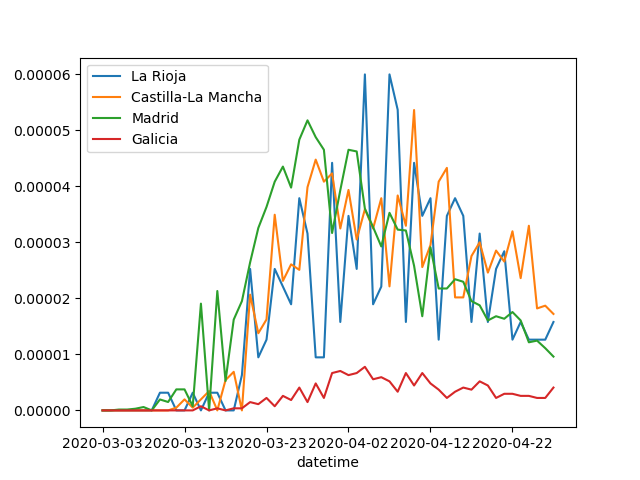
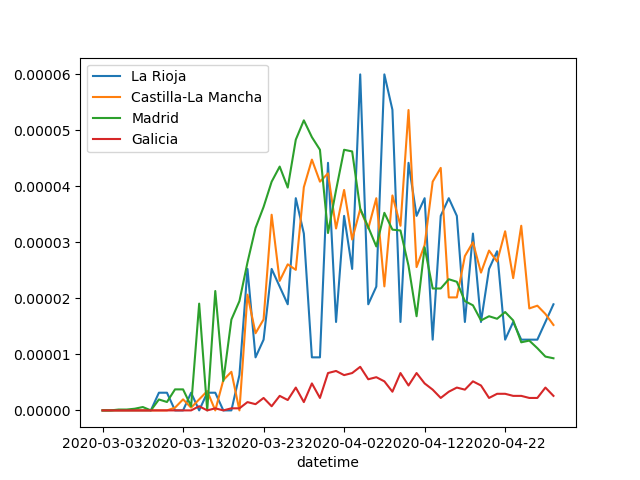
datetime until yesterday to represent full day

Changed region(s): [[0.2188, 0.1562, 0.875, 0.875], [0.2188, 0.9062, 0.875, 0.9375], [0.7188, 0.7812, 0.875, 0.8438]]

diff --git a/docs/index.html b/docs/index.html
@@ -51,7 +51,7 @@
             <th>Percentage</th>
           </tr>
           <tr>
-          <tr><td>Spain</td><td>10.92 %</td></tr><tr><td>Sweden</td><td>11.77 %</td></tr><tr><td>Netherlands</td><td>11.82 %</td></tr><tr><td>Antigua_and_Barbuda</td><td>12.50 %</td></tr><tr><td>Algeria</td><td>12.57 %</td></tr><tr><td>Zimbabwe</td><td>12.90 %</td></tr><tr><td>Italy</td><td>13.48 %</td></tr><tr><td>United_Kingdom</td><td>13.56 %</td></tr><tr><td>Bahamas</td><td>13.75 %</td></tr><tr><td>Northern_Mariana_Islands</td><td>14.29 %</td></tr><tr><td>Mauritania</td><td>14.29 %</td></tr><tr><td>Belgium</td><td>15.38 %</td></tr><tr><td>British_Virgin_Islands</td><td>16.67 %</td></tr><tr><td>Sint_Maarten</td><td>17.57 %</td></tr><tr><td>France</td><td>18.35 %</td></tr><tr><td>Nicaragua</td><td>23.08 %</td></tr>
+          <tr><td>Spain</td><td>10.92 %</td></tr><tr><td>Sweden</td><td>12.02 %</td></tr><tr><td>Liberia</td><td>12.03 %</td></tr><tr><td>Algeria</td><td>12.28 %</td></tr><tr><td>Antigua_and_Barbuda</td><td>12.50 %</td></tr><tr><td>Zimbabwe</td><td>12.50 %</td></tr><tr><td>United_Kingdom</td><td>13.42 %</td></tr><tr><td>Italy</td><td>13.53 %</td></tr><tr><td>Bahamas</td><td>13.75 %</td></tr><tr><td>Northern_Mariana_Islands</td><td>14.29 %</td></tr><tr><td>Mauritania</td><td>14.29 %</td></tr><tr><td>Belgium</td><td>15.44 %</td></tr><tr><td>British_Virgin_Islands</td><td>16.67 %</td></tr><tr><td>Sint_Maarten</td><td>17.33 %</td></tr><tr><td>France</td><td>18.15 %</td></tr><tr><td>Nicaragua</td><td>23.08 %</td></tr>
 
         
         </table>

diff --git a/graphics.py b/graphics.py
@@ -9,25 +9,25 @@ import datetime
 Format ArrayCountries: countries tu print
 [['ESP'], ['ITA']...]
 '''
-def print_death_evolution(dataset, ArrayCountries, date, show = False):
+def print_death_evolution(dataset, ArrayCountries, date, fin, show = False):
     flag, array = check_siglas(dataset, ArrayCountries)
     if not flag:
         raise Exception('The following acronyms are not correct: ', array)
 
-    print_label(dataset, ArrayCountries, 'deaths', date, show)
+    print_label(dataset, ArrayCountries, 'deaths', date, fin, show)
 
-def print_cases_evolution(dataset, ArrayCountries, date, show = False):
+def print_cases_evolution(dataset, ArrayCountries, date, fin, show = False):
     flag, array = check_siglas(dataset, ArrayCountries)
     if not flag:
         raise Exception('The following acronyms are not correct: ', array)
 
-    print_label(dataset, ArrayCountries, 'cases', date, show)
+    print_label(dataset, ArrayCountries, 'cases', date, fin, show)
 
-def print_label(dataset, ArrayCountries, label, date, show = False):
+def print_label(dataset, ArrayCountries, label, date, fin, show = False):
     plt.figure(figsize=(6, 5))
     for i in ArrayCountries:
         dt_aux = dataset[dataset['countriesAndTerritories'] == i]
-        dt_aux[label+'Pop'][date:].plot(label=i)
+        dt_aux[label+'Pop'][date:fin].plot(label=i)
 
     plt.legend()
     if show:
@@ -48,9 +48,9 @@ def check_siglas (dataset, ArrayCountries):
 
     return flag, arrayFalses
 
-def ESP_evolution(dataset, date, predcasos, predmuertes, show=False):
+def ESP_evolution(dataset, date, fin, predcasos, predmuertes, show=False):
     plt.figure(figsize=(6, 5))
-    dt_aux = dataset[dataset['countriesAndTerritories'] == 'Spain'][date:]
+    dt_aux = dataset[dataset['countriesAndTerritories'] == 'Spain'][date:fin]
 
     for i in range(len(predmuertes)):
         last_date = dt_aux.iloc[[-1]].index

diff --git a/main.py b/main.py
@@ -6,6 +6,7 @@ from buildHTML import generateHTML
 from prediction import prediction_AutoRegressive2, AR_model_persistence_resi_err
 import sys
 import webbrowser
+import datetime
 
 #N = int(sys.argv[1])
 N = 5
@@ -22,15 +23,17 @@ dt = datasetPreparement(pathDestino, pathpoblaciones)
 top_deaths = top_N_cases(dt, N)
 top_cases = top_N_deaths(dt, N)
 
+yesterday = datetime.datetime.now() + datetime.timedelta(days=-1)
+yesterday = yesterday.strftime("%d/%m/%Y")
 start_date = '15/02/2020'
 
-print_death_evolution(dt, top_deaths, start_date)
-print_cases_evolution(dt, top_cases, start_date)
+print_death_evolution(dt, top_deaths, start_date, yesterday)
+print_cases_evolution(dt, top_cases, start_date, yesterday)
 
 countries, percentage = top_perc_deaths(dt, N*3)
 
 predcasos, predmuertes = prediction_AutoRegressive2(pathDestino, 4)
-ESP_evolution(dt, '03/2020', predcasos, predmuertes)
+ESP_evolution(dt, '03/2020', yesterday, predcasos, predmuertes)
 
 dt_CCAA = datasetCCAA(urlDescargaCCAA, pathDestinoCCAA)
 top_ccaa = top_N_CCAA (dt_CCAA, N-2) + ['Galicia']
